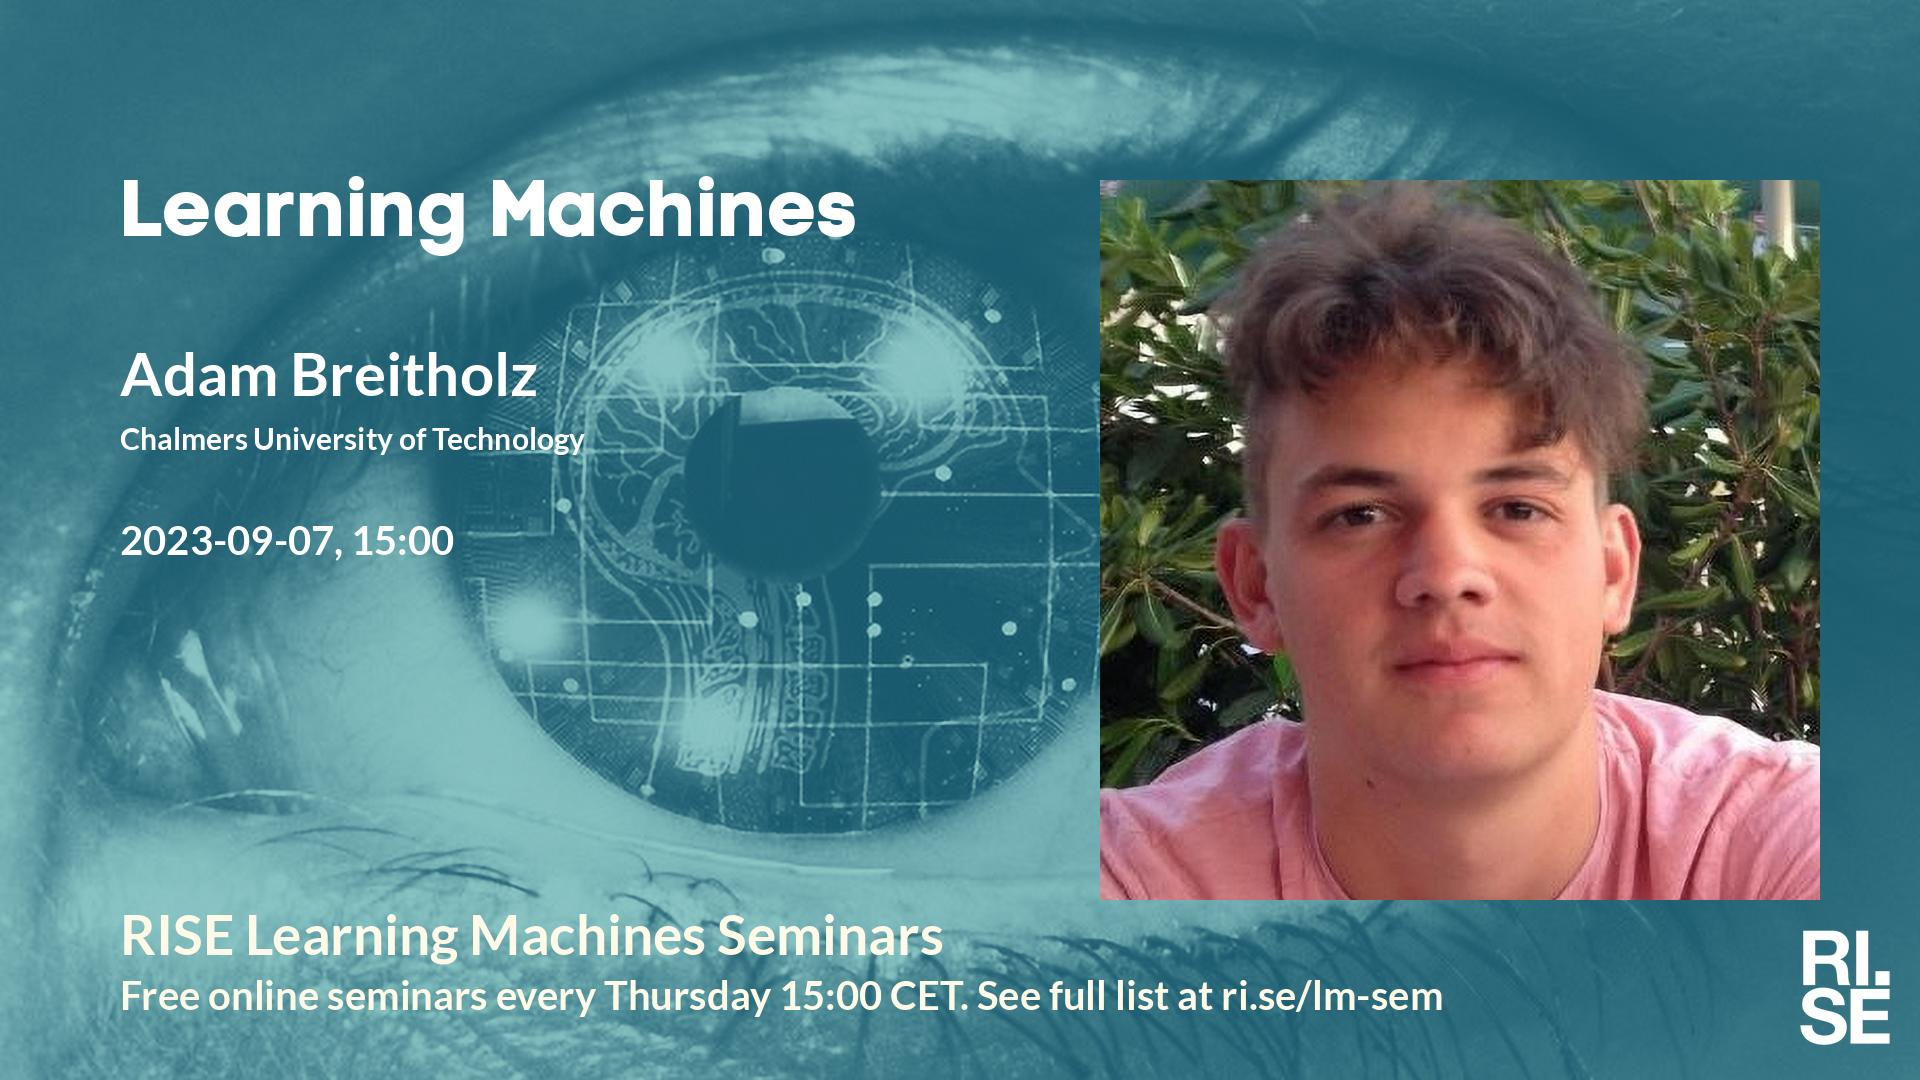
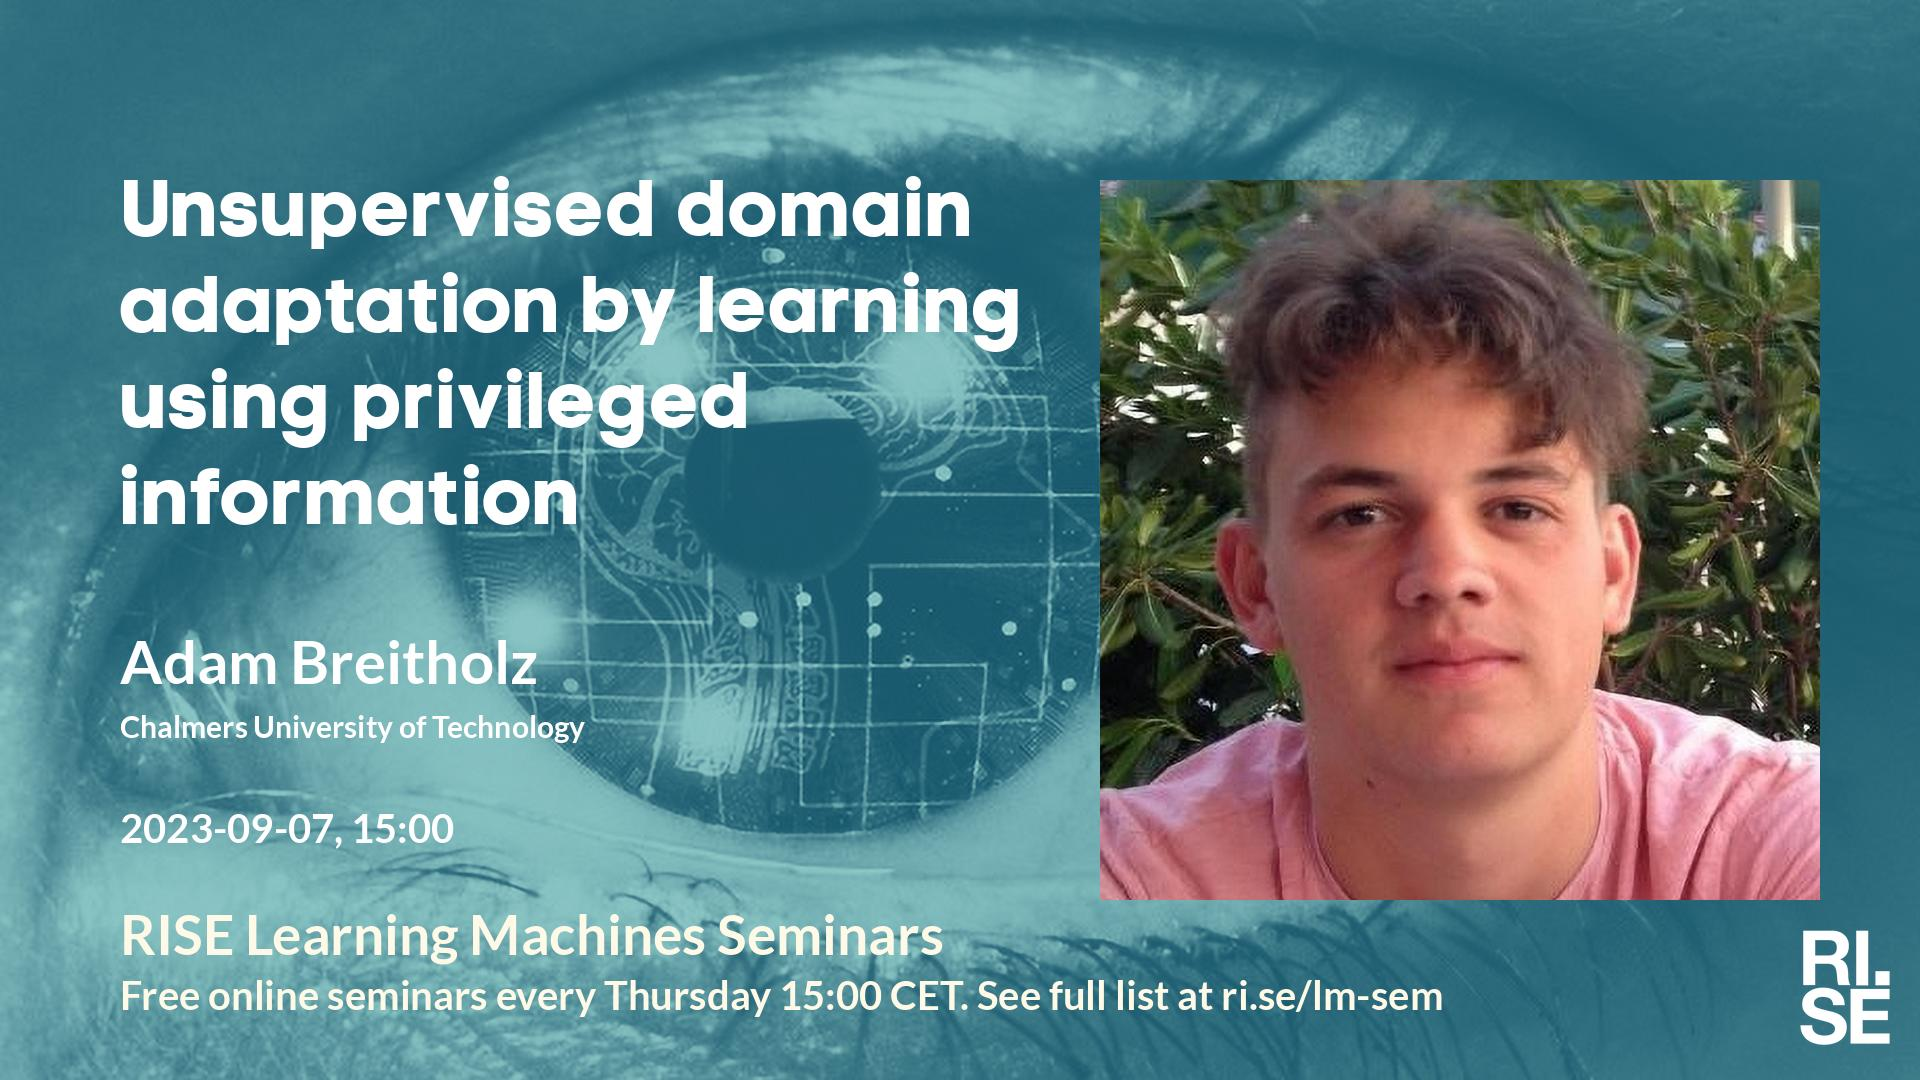
Updated plan on web site.

Changed region(s): [[0.0625, 0.1528, 0.5312, 0.5194], [0.0625, 0.5806, 0.3125, 0.7028], [0.0625, 0.7333, 0.25, 0.7944]]

diff --git a/lm/index.md b/lm/index.md
@@ -5,12 +5,12 @@ metatags: "<meta name=\"robots\" content=\"noindex,nofollow\" />"
 <style type="text/css" scoped>
 td, th {border: 1px solid #ccc; padding: 0.6em;}
 table {border-collapse: collapse;}
-</style># Learning Machines Plan 2023-08-01
+</style># Learning Machines Plan 2023-08-08
 
 | date | speaker                                   | photo | shareable | meeting backdrop | youtube thumbnail | <a title="Speaker, Title, Abstract, Bio, Photo. Strikethrough means we don't have it yet.">comment</a>        |
 | ---- | ----------------------------------------- | ----- | ----- | ----- | ----- | -------------- |
 |  2023-08-31  |  [Zahra Taghiyar Renan, Halmstad University](2023-08-31.md)  |  [photo](photo-zahra-taghiyar-renan.jpg)  |  [social media ](social-media-zahra-taghiyar-renan.jpg)  |  [meeting backdrop ](meeting-backdrop-zahra-taghiyar-renan.jpg)  |  [youtube thumbnail ](youtube-thumbnail-zahra-taghiyar-renan.jpg)  |  S~~TAB~~P  |
-|  2023-09-07  |  [Adam Breitholz, Chalmers University of Technology](2023-09-07.md)  |  [photo](photo-adam-breitholz.jpg)  |  [social media ](social-media-adam-breitholz.jpg)  |  [meeting backdrop ](meeting-backdrop-adam-breitholz.jpg)  |  [youtube thumbnail ](youtube-thumbnail-adam-breitholz.jpg)  |  S~~TAB~~P  |
+|  2023-09-07  |  [Adam Breitholz, Chalmers University of Technology](2023-09-07.md)  |  [photo](photo-adam-breitholz.jpg)  |  [social media ](social-media-adam-breitholz.jpg)  |  [meeting backdrop ](meeting-backdrop-adam-breitholz.jpg)  |  [youtube thumbnail ](youtube-thumbnail-adam-breitholz.jpg)  |  ST~~AB~~P  |
 |  2023-09-14  |  [Virginia Smith, CMU](2023-09-14.md)  |  [photo](photo-virginia-smith.jpg)  |  [social media ](social-media-virginia-smith.jpg)  |  [meeting backdrop ](meeting-backdrop-virginia-smith.jpg)  |  [youtube thumbnail ](youtube-thumbnail-virginia-smith.jpg)  |  S~~TAB~~P  |
 |  2023-09-21  |  [Nico Lang, University of Copenhagen](2023-09-21.md)  |  [photo](photo-nico-lang.jpg)  |  [social media ](social-media-nico-lang.jpg)  |  [meeting backdrop ](meeting-backdrop-nico-lang.jpg)  |  [youtube thumbnail ](youtube-thumbnail-nico-lang.jpg)  |  STABP  |
 |  2023-09-28  |  [Johan Östman, AI Sweden](2023-09-28.md)  |  [photo](photo-johan-ostman.jpg)  |  [social media ](social-media-johan-ostman.jpg)  |  [meeting backdrop ](meeting-backdrop-johan-ostman.jpg)  |  [youtube thumbnail ](youtube-thumbnail-johan-ostman.jpg)  |  S~~TAB~~P  |

diff --git a/lm/2023-09-07.md b/lm/2023-09-07.md
@@ -4,7 +4,7 @@ metatags: "<meta name=\"robots\" content=\"noindex,nofollow\" />"
 ---
 Welcome to this week's Learning Machines seminar.
 
-**Title:** N/A
+**Title:** Unsupervised domain adaptation by learning using privileged information
 
 **Speaker:** Adam Breitholz, Chalmers University of Technology
 
